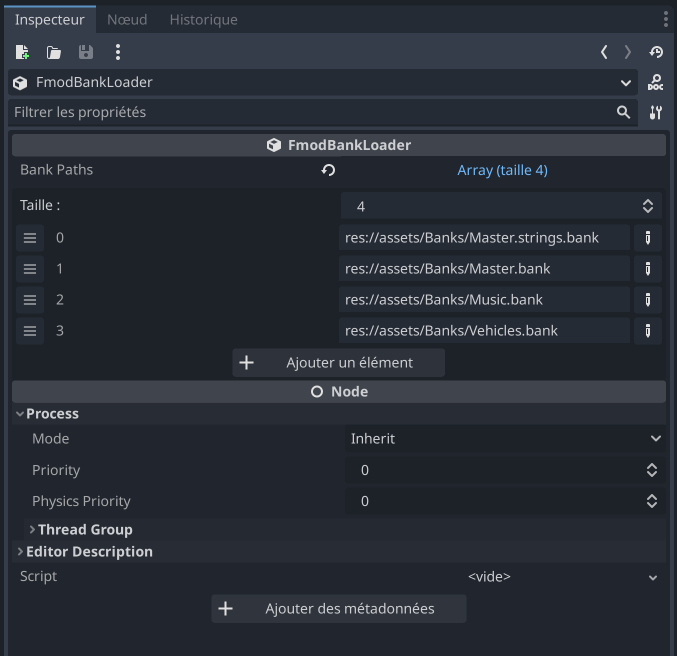
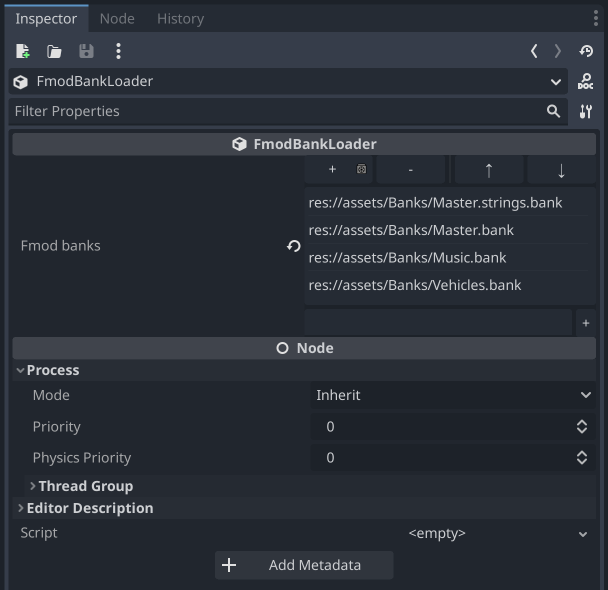
feat: Add editor inspector plugin for FmodBankLoader node (#164)

diff --git a/src/studio/fmod_bank.cpp b/src/studio/fmod_bank.cpp
@@ -15,6 +15,8 @@ void FmodBank::_bind_methods() {
     ClassDB::bind_method(D_METHOD("get_vca_list"), &FmodBank::get_vca_list);
     ClassDB::bind_method(D_METHOD("is_valid"), &FmodBank::is_valid);
     ClassDB::bind_method(D_METHOD("get_godot_res_path"), &FmodBank::get_godot_res_path);
+    ClassDB::bind_method(D_METHOD("get_path"), &FmodBank::get_path);
+    ClassDB::bind_method(D_METHOD("get_guid"), &FmodBank::get_guid_as_string);
 }
 
 int FmodBank::get_loading_state() {

diff --git a/docs/src/doc/user-guide/3-nodes.md b/docs/src/doc/user-guide/3-nodes.md
@@ -7,7 +7,9 @@ Those nodes are gdextension, so you can extends them using scripts like any othe
 
 `FmodBankLoader` is in charge of loading banks when entering the scene. You should place it, in the scene hierarchy,
 before all other fmod nodes using this bank. Banks are unloaded on exit tree.  
-You simply have to specify bank paths as `String` in inspector:  
+If you want to load your bank when starting game and keep them loaded, use this node and add it as autoload node.  
+You can add banks with fmod project explorer, using the `+` button with bank icon, or manually add a bank using bottom
+line edit. You can also remove and re-order banks:  
 ![fmod-bank-image]
 
 !!! warning
